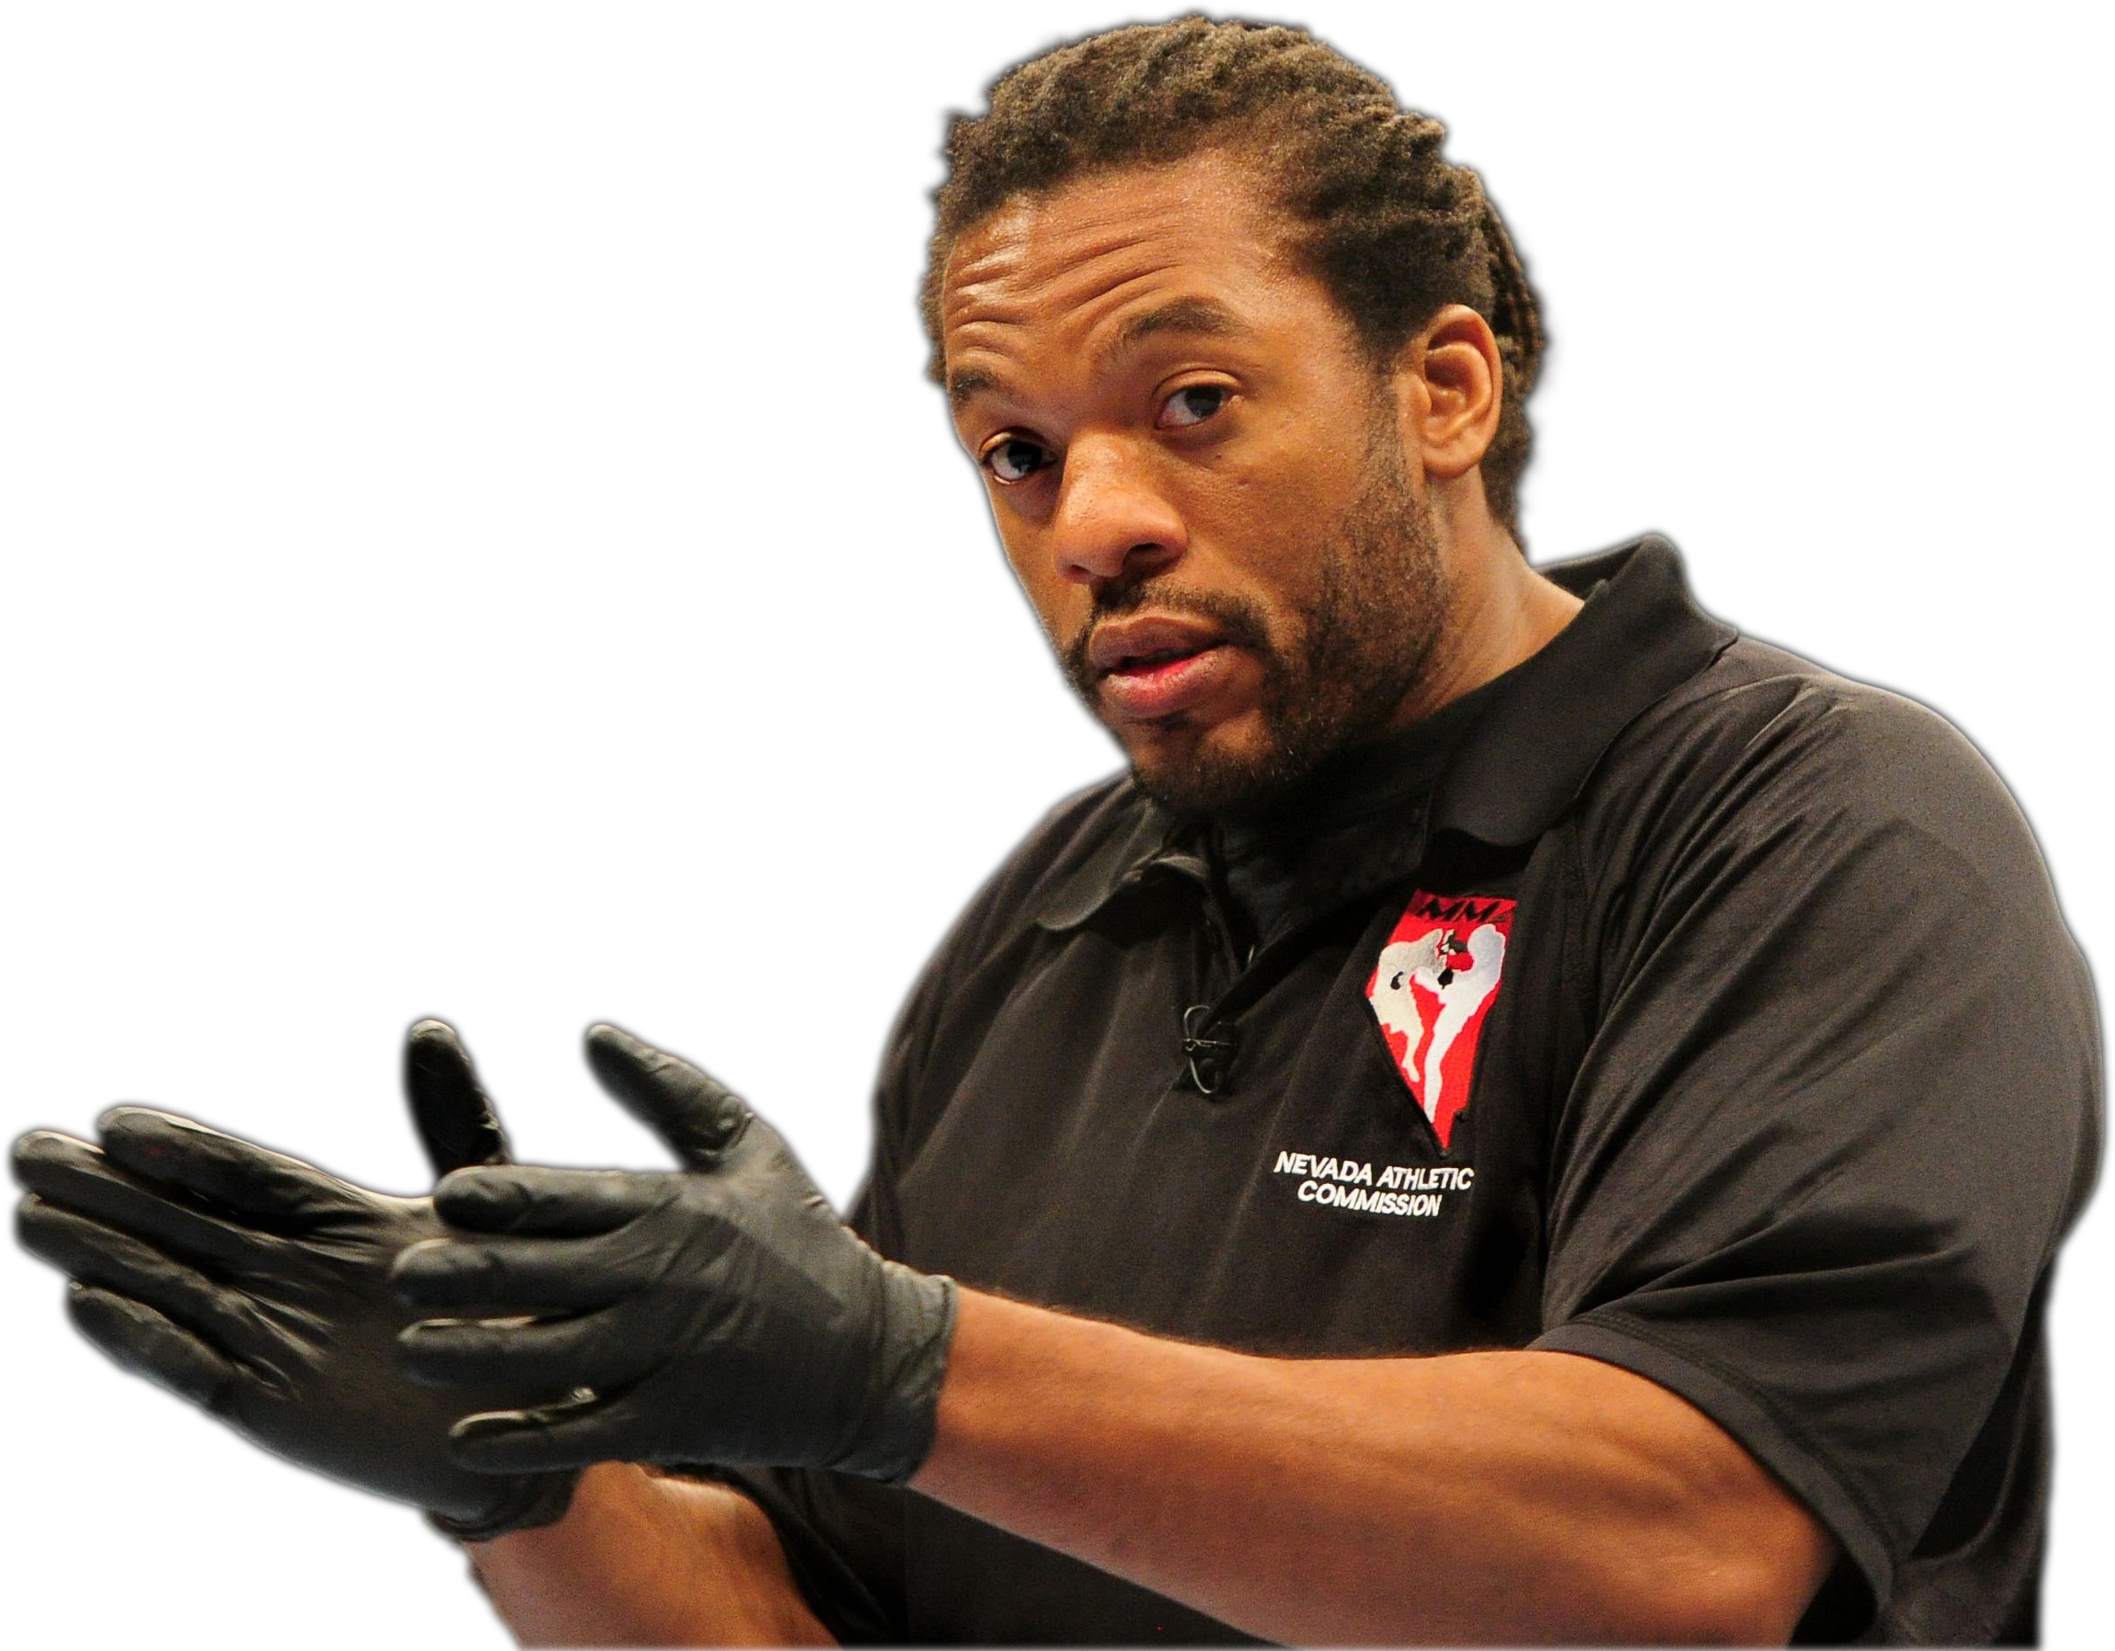
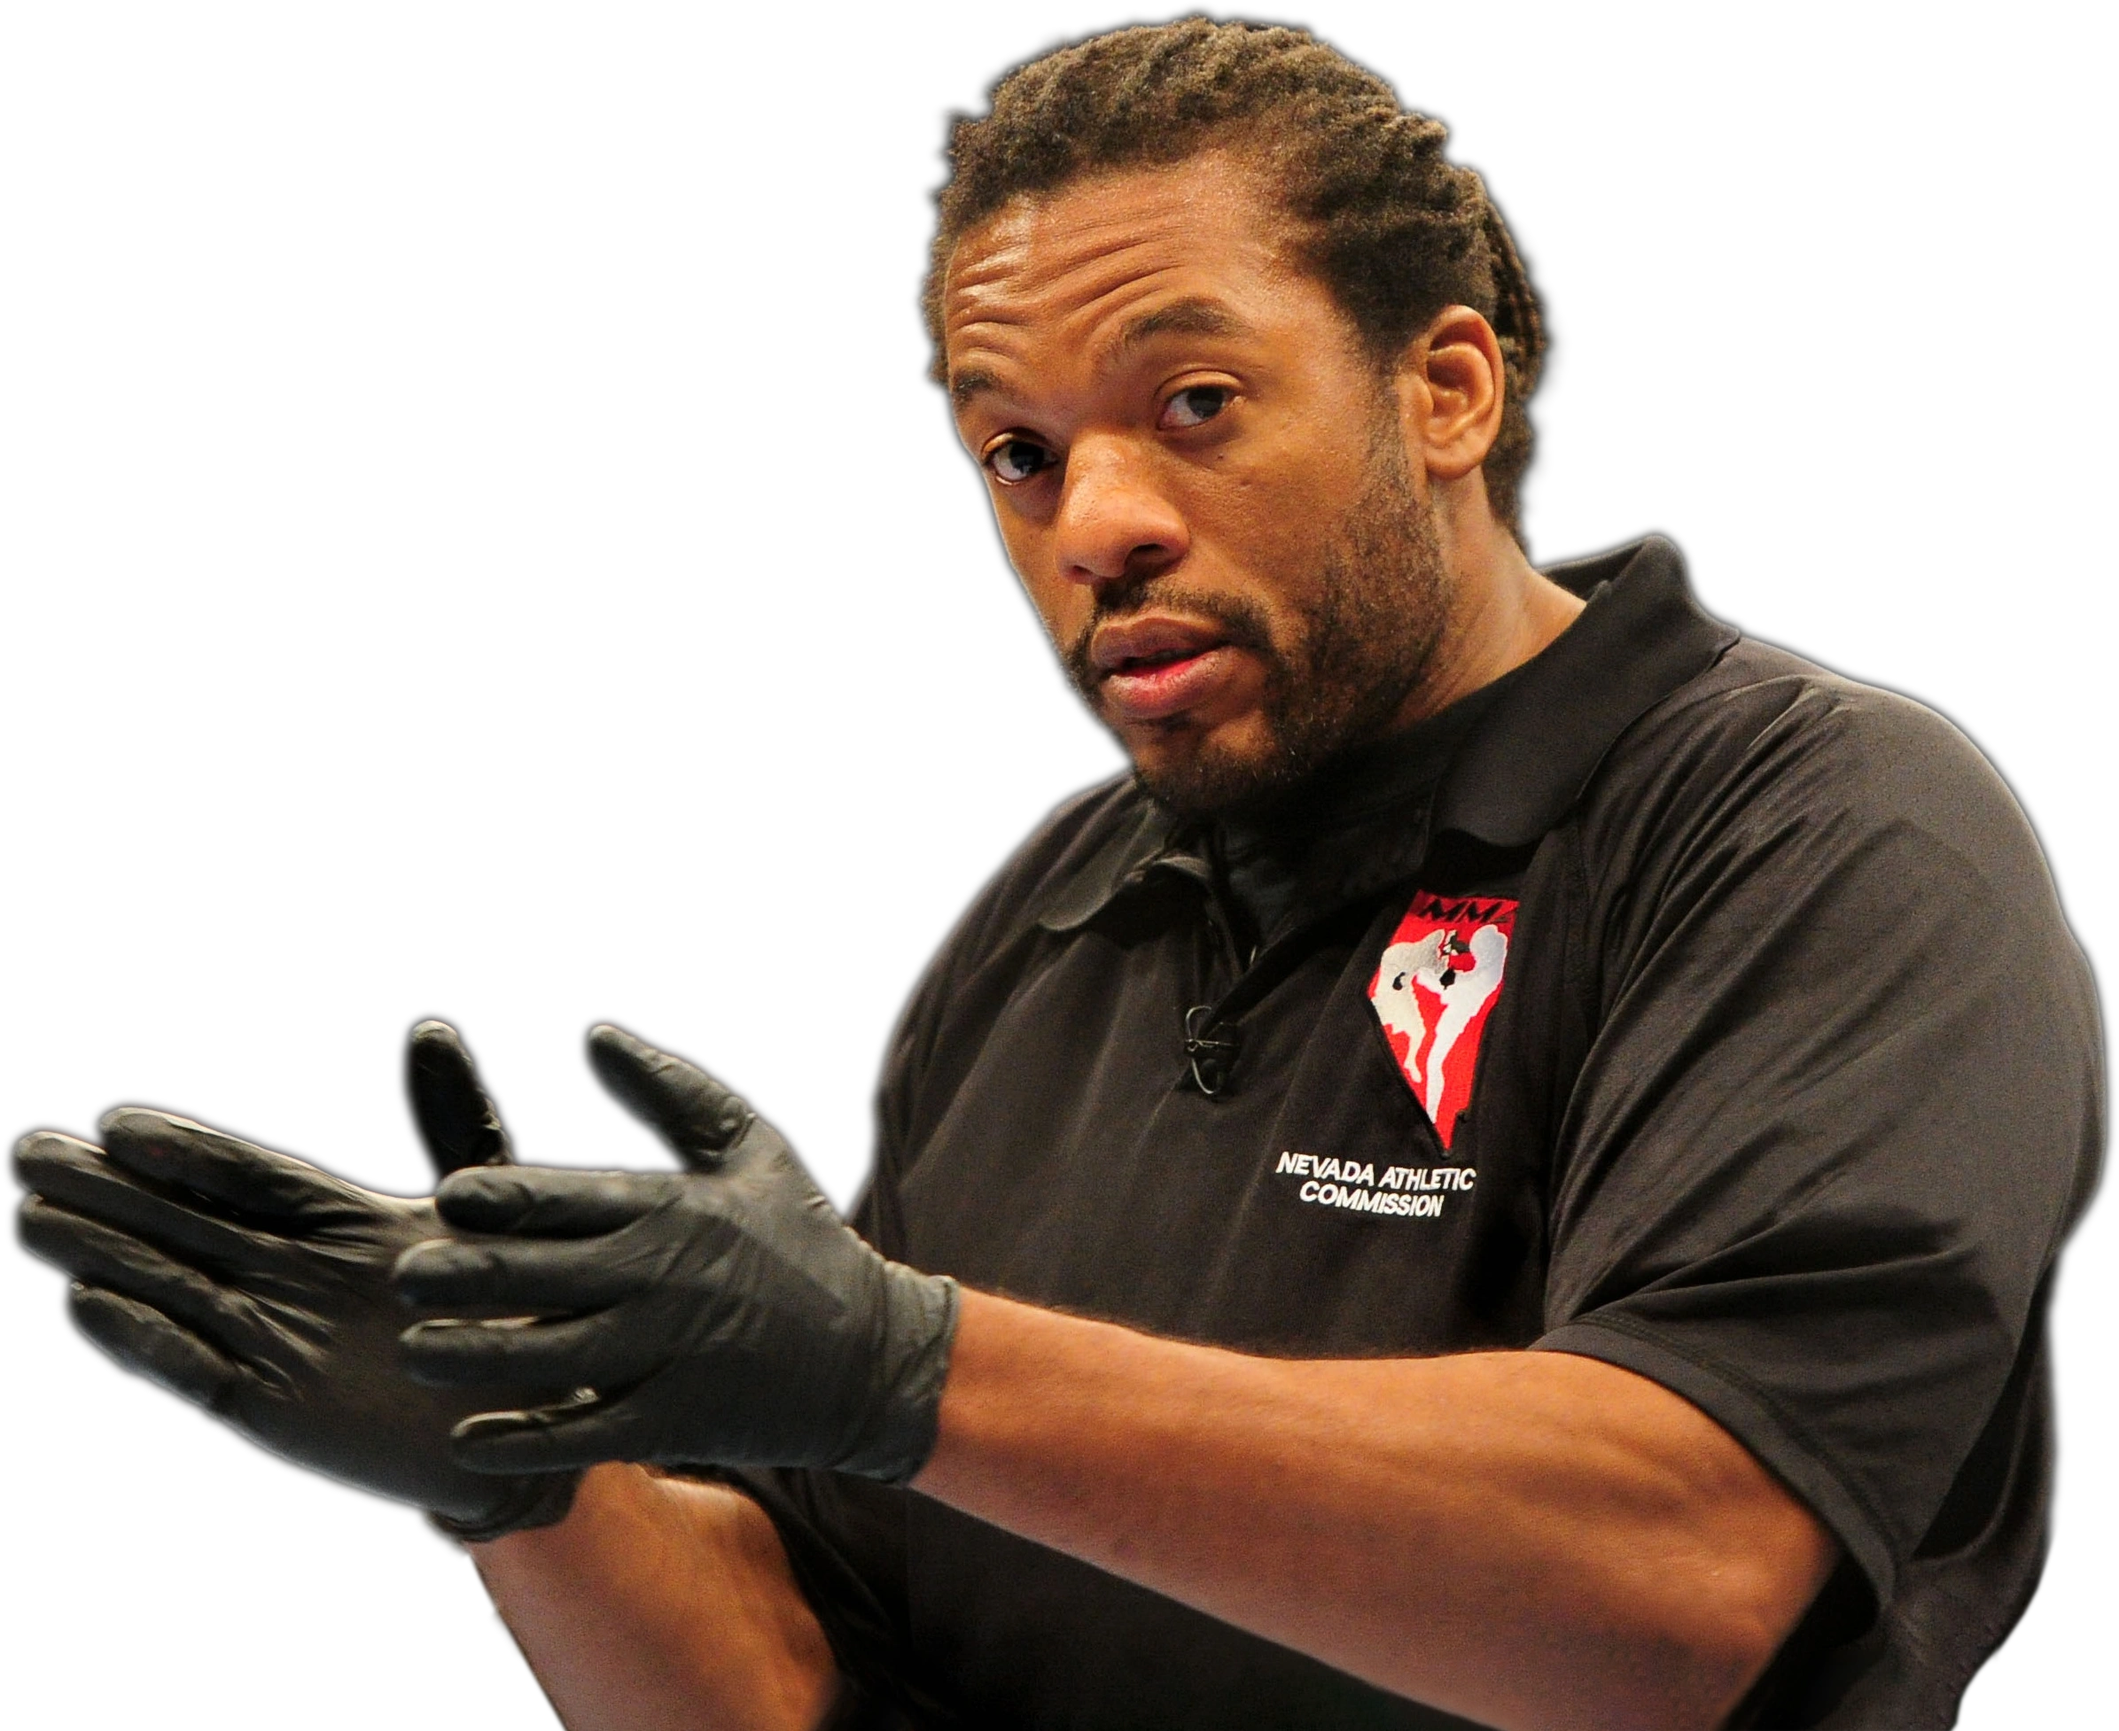
v0.1.2-β.18 | Company and Product main candidate shots, other minor fixes

Changed region(s): [[0.0, 0.0311, 1.0, 1.0]]

diff --git a/app/product/page.tsx b/app/product/page.tsx
@@ -361,12 +361,13 @@ const productDashboardMembersItems: ProductTitlesItem[] = [
       const productDashboardMembersTitles = gsap.utils.toArray(".productDashboardMembersTitles") as HTMLElement[];
       let activeElement: HTMLElement | undefined;
       let verticalLoopSpeed = isUnder768 ? 0.2 : 0.3;
+      let activeTitlePosition = isPortrait ? false : true;
       const loop = verticalLoop(productDashboardMembersTitles, {
         paused: false,
         speed: verticalLoopSpeed,
         repeat: -1,
         draggable: true, // make it draggable
-        center: true, // active element is the one in the center of the container rather than the top edge
+        center: activeTitlePosition, // active element is the one in the center of the container rather than the top edge
         onChange: (element: HTMLElement, index: number) => { // when the active element changes, this function gets called.
           //console.log(element);
           activeElement && activeElement.classList.remove("active");
@@ -409,32 +410,34 @@ const productDashboardMembersItems: ProductTitlesItem[] = [
       </section> */}
 
       <section id="MMAPP-Methodology" className="flex flex-col py-0 md:py-0 lg:py-0 pt-0 md:pt-[0vw] lg:pt-[0vw]">
-          <ProductFC className="p-[5vw] md:p-[7.65vw] bg-bgRadialGradientDown">
+          <ProductFC className="p-[5vw] md:px-[7.65vw] md:pt-[7vw] md:pb-[1vw] bg-bgRadialGradientDown">
             <ProductFCTitle className="pt-[15vw] md:pt-[3vw]">
               MMAPP Methodology
             </ProductFCTitle>
             <ProductFCHeading className="mx-[5vw]">
               A consistent and standardised unit of measurement for officiating MMA
             </ProductFCHeading>
-            <ProductFCDescription className="justify-start pr-[0vw] md:pr-[22vw] text-left mb-6 md:mb-[2vw]">
+            {/* <ProductFCDescription className="justify-start pr-[0vw] md:pr-[22vw] text-left mb-6 md:mb-[2vw]">
               The MMAPP Platform centres around our patented methodology, which provides officials worldwide with a consistent and coherent approach to assessing MMA fights.<br/><br/>
               Using only a mobile device, officials can record their train of thought, without any outside input, for every second of the fight and provide insights into their own evaluation immediately after the round.<br/>
               This allows officials to make more informed decisions for longer.<br/><br/>
               By creating a standardised unit of measurement, we are able to get officials on the same page and improve consistency in MMA Judging, whilst allowing judges to have a better recall of every fight.
-            </ProductFCDescription>
-            {/* <ProductFCDescription className="justify-start pr-[0vw] md:pr-[22vw] text-left mb-6 md:mb-[2vw]">
+            </ProductFCDescription> */}
+            <ProductFCDescription className="justify-start pr-[0vw] md:pr-[22vw] text-left mb-6 md:mb-[2vw]">
               The MMAPP Platform centres around our patented methodology, which provides officials worldwide with a consistent and coherent approach to assessing MMA fights.
             </ProductFCDescription>
-            <ProductFCDescription className="justify-end pl-[0vw] md:pl-[19vw] text-right mb-6 md:mb-[2vw]">
+            <ProductFCDescription className="justify-start pr-[0vw] md:pr-[26vw] text-left mb-6 md:mb-[2vw]">
               Using only a mobile device, officials can record their train of thought, without any outside input, for every second of the fight and provide insights into their own evaluation immediately after the round.<br/>
               This allows officials to make more informed decisions for longer.
             </ProductFCDescription>
-            <ProductFCDescription className="justify-start pr-[0vw] md:pr-[22vw] text-left mb-6 md:mb-[2vw]">
+            <ProductFCDescription className="justify-start pr-[40vw] md:pr-[39vw] portrait:md:pr-[46vw] text-left mb-[9rem] md:mb-[2vw]">
               By creating a standardised unit of measurement, we are able to get officials on the same page and improve consistency in MMA Judging, whilst allowing judges to have a better recall of every fight.
-            </ProductFCDescription> */}
-            <p className="text-lg md:text-xl hover:text-white text-neutral-200 text-center justify-center pt-[2.5vw] bounce-arrow">
+            </ProductFCDescription>
+            <p className="text-lg md:text-xl hover:text-white text-neutral-200 text-left md:text-center pl-[2vw] md:pl-0 pt-[3vw] justify-center bounce-arrow">
             ↓
             </p>
+            <img className="z-10 max-h-full max-w-[90vw] portrait:touch:md:max-w-[71vw] xl:max-w-[45vw] bottom-[-0.1rem] right-[-1.5rem] portrait:touch:right-[-13vw] portrait:touch:md:right-[-14.5vw] absolute md:absolute object-contain" src="/images/referees/herb-dean.webp" alt="MMA Referees"/>
+            
           </ProductFC>
 
           {/* <div className={clsx(

diff --git a/app/company/page.tsx b/app/company/page.tsx
@@ -92,11 +92,11 @@ const Company = (props: any) => {
             <MainFCHeading className="flex-col justify-start z-20 max-w-[100%] md:max-w-[50rem] lg:max-w-[70rem] xl:max-w-[65rem] text-left">
               Accelerate the Recognition of MMA as an Olympic Sport
             </MainFCHeading>
-            <MainFCDescription className="flex-col justify-start z-20 max-w-[100%] md:max-w-[40rem] lg:max-w-[50rem] text-left">
+            <MainFCDescription className="flex-col justify-start z-20 max-w-[100%] md:max-w-[39rem] lg:max-w-[55rem] text-left leading-normal">
               In pursuit of this goal, we build solutions designed to help Federations and their respective members streamline their activities and build cohesiveness in MMA judging by offering tools for officials to discuss their assessments more profoundly and amplify their judging abilities.
             </MainFCDescription>
             {/* <img className="z-10 max-h-full max-w-[50vw] md:max-w-[40vw] xl:max-w-[38vw] bottom-[-0.1rem] right-[1rem] absolute md:absolute object-contain" src="/images/referees/herb-dean.webp" alt="herb dean"/> */}
-            <img className="z-10 max-h-full max-w-[50vw] md:max-w-[33vw] xl:max-w-[36vw] bottom-[-0.1rem] right-[1rem] absolute md:absolute object-contain" src="/images/referees/_fb727da5-faed-480e-9fa0-f99466194f90 copy.webp" alt="herb dean"/>
+            <img className="z-10 max-h-full max-w-[50vw] md:max-w-[36vw] xl:max-w-[34vw] bottom-[-0.1rem] right-[-2vw] portrait:touch:md:right-[-3vw] absolute md:absolute object-contain overflow-hidden" src="/images/referees/Temp/stock-photo-minsk-belarus-september-new-fighting-generation-mixed-martial-arts-1774520465.webp" alt="herb dean"/>
           </MainFC>
         </section>
 
@@ -110,7 +110,7 @@ const Company = (props: any) => {
             <MainFCHeading className="text-center">
               Create a common language and unit of measurement for officiating MMA
             </MainFCHeading>
-            <MainFCDescription className="text-center mx-5 md:mx-12 lg:mx-44">
+            <MainFCDescription className="text-center mx-5 md:mx-12 lg:mx-44 leading-normal">
               By creating a common language and unit of measurement for officials, transparency, consistency, and coherence increase in MMA and promote an honest discussion between all stakeholders of the sport on the best path forward to the betterment of all.
             </MainFCDescription>
             <div className="flex flex-col md:flex-row items-start justify-between mt-12 md:mt-20 mb-8 md:mb-0 lg:mt-32 mx-2 md:mx-0 lg:mx-8">

diff --git a/-build-trigger/trigger.tsx b/-build-trigger/trigger.tsx
@@ -1,2 +1,2 @@
-let vNumber = "v0.1.2-β.17 | Converted VerticalLoop to TypeScript";
+let vNumber = "v0.1.2-β.18 | Company and Product main candidate shots, other minor fixes";
 

diff --git a/app/globals.css b/app/globals.css
@@ -598,7 +598,7 @@ a {
 } */
 
 .bounce-arrow {
-  animation: bounce 3s infinite;
+  animation: bounce 2s infinite;
 
   @keyframes bounce {
     0%, 100% {
